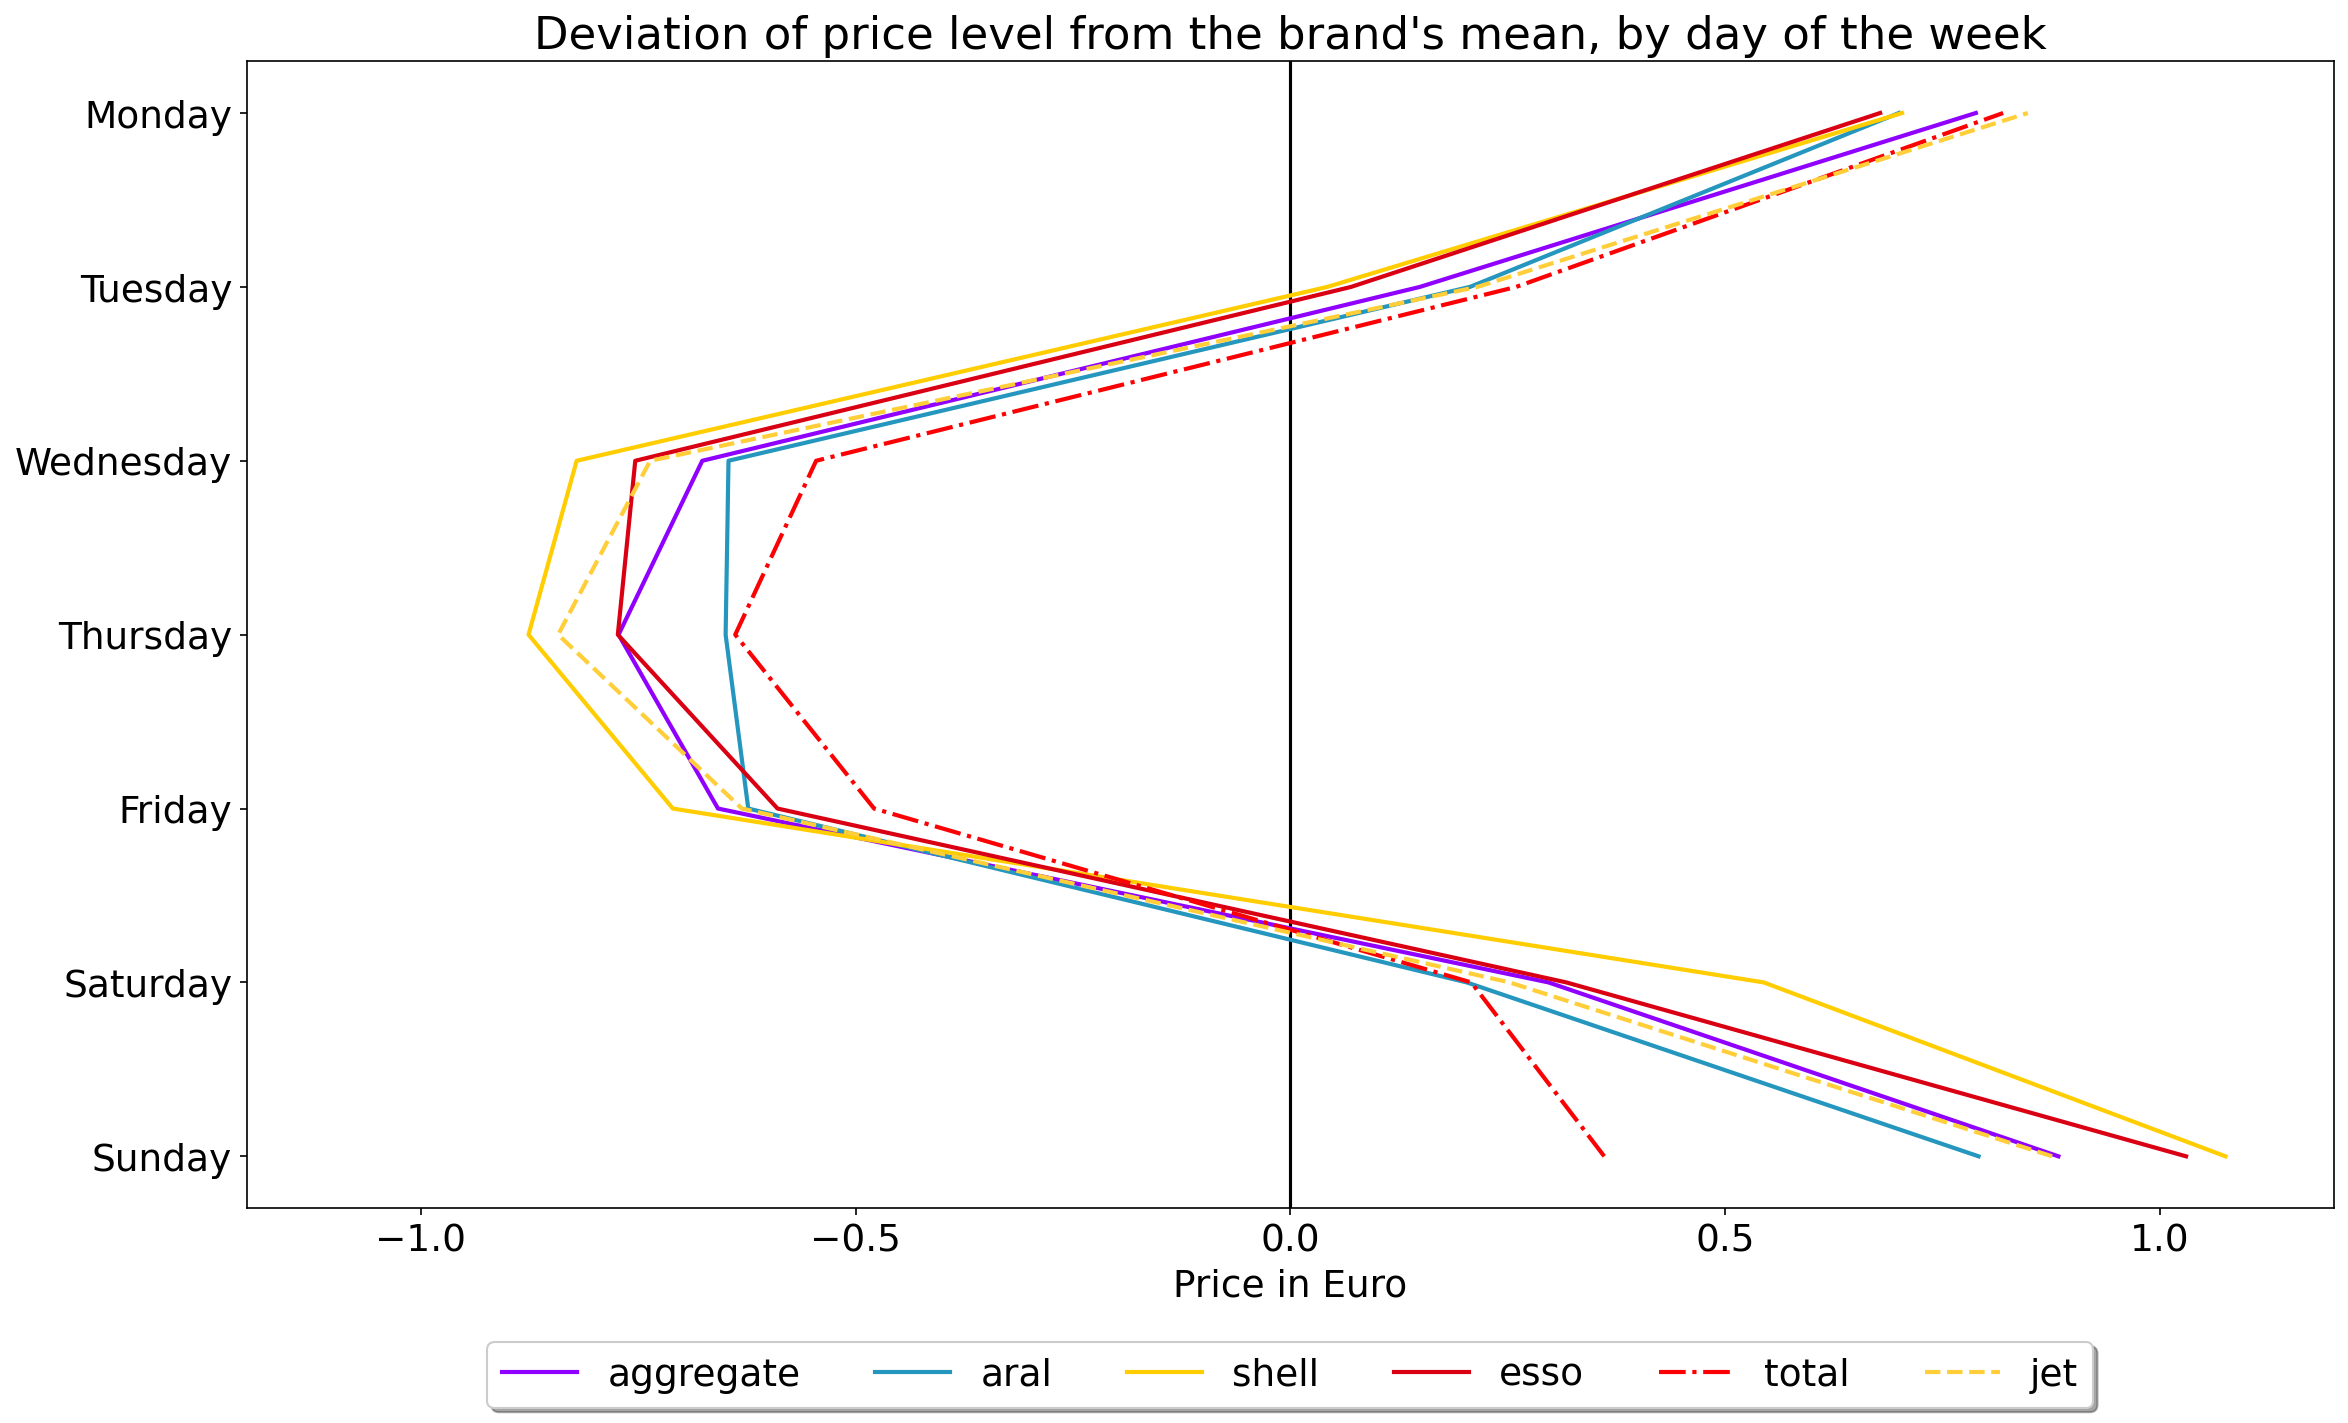
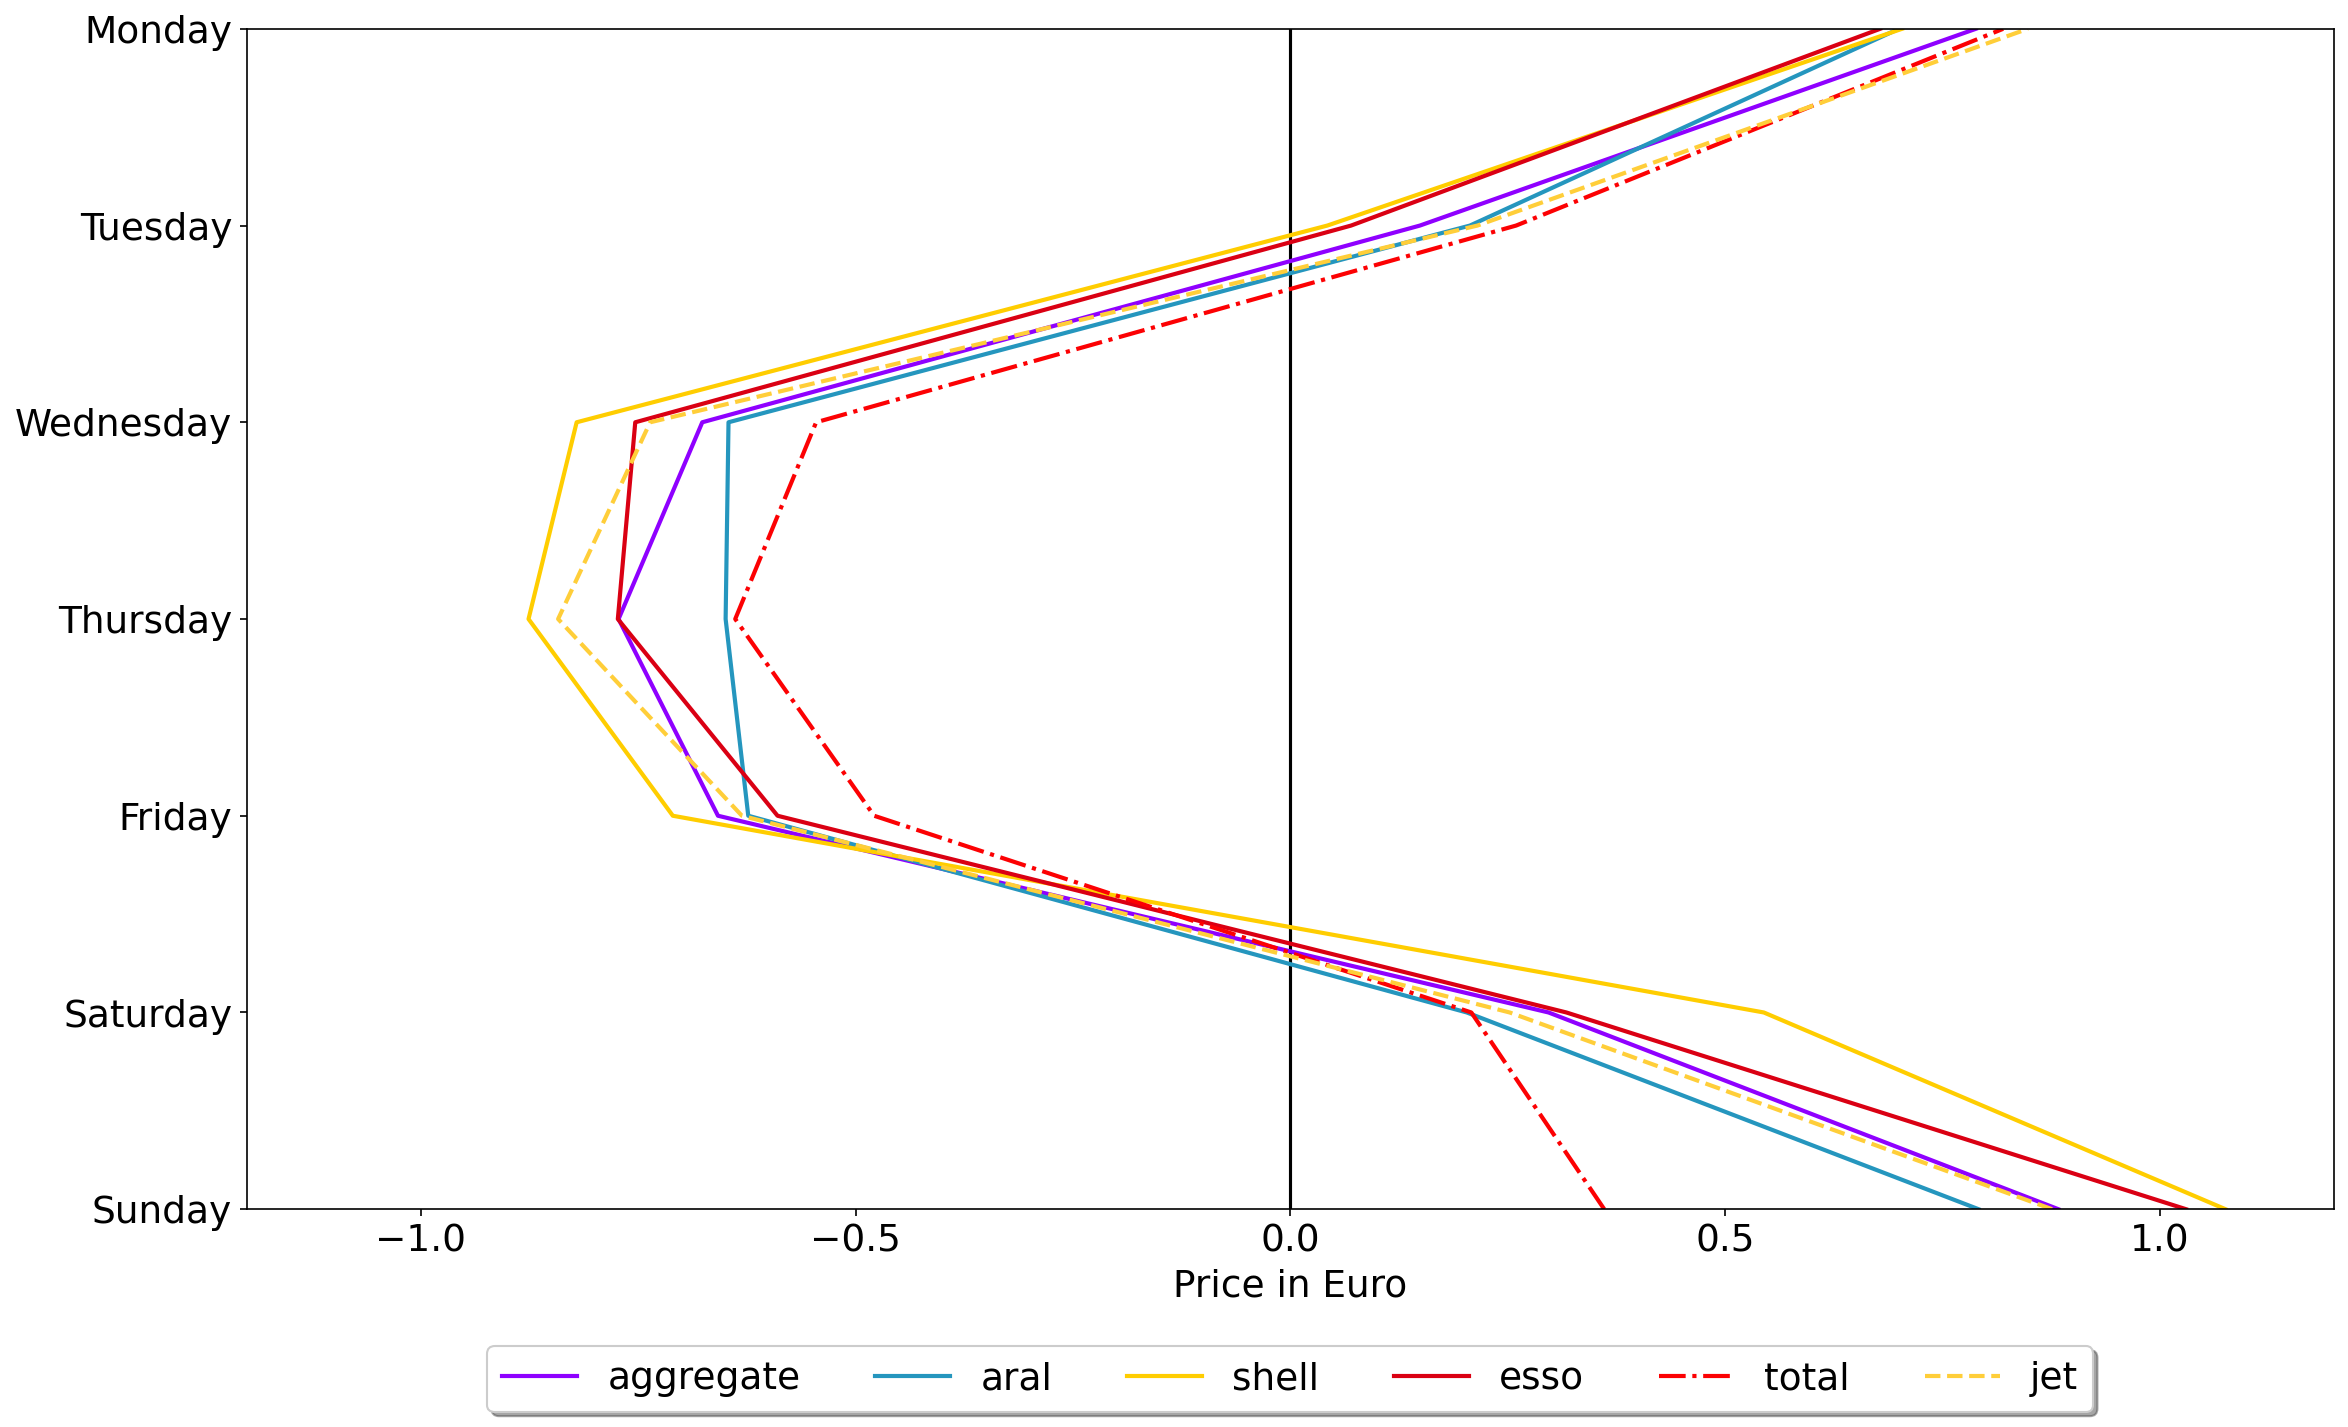
final version mar 2024

diff --git a/py/panel_3a.py b/py/panel_3a.py
@@ -2,14 +2,27 @@ import matplotlib.pyplot as plt
 import matplotlib.dates as mdates
 import pandas as pd
 from datetime import datetime
+import stations_colors as sc
 
-from compilation_peaks_2b import df_prices_ts as df_prices
-import compilation_peaks_2b as compilation
+plt.rcParams.update({'font.size': 18})
+
+#from compilation_peaks_2b import df_prices_ts as df_prices
+#import compilation_peaks_2b as compilation
 import functions_1 as fcs
 
-date = compilation.date
-param = compilation.param
-arg = compilation.arg
+
+#date = compilation.date
+#param = compilation.param
+#arg = compilation.arg
+
+date = datetime(2022, 10, 3)
+param = 'brand_id'
+arg = 'aral'
+
+#df_stations = fcs.selectStationsbyCategory(date, param, arg)
+#df_prices = fcs.selectPriceRowsDate(date, df_stations)
+#df_prices = fcs.trimToTimeSeries(df_prices)
+
 
 save_name = f'./samples/MUC_{param}_{arg}_{date.date()}.png'
 
@@ -18,6 +31,8 @@ save_name = f'./samples/MUC_{param}_{arg}_{date.date()}.png'
 fig = plt.figure(figsize=(16, 9))
 ax = fig.add_subplot(1, 1, 1)
 
+(df_stations, df_prices) = fcs.selectStationsbyCategoryRange(datetime(2022, 10, 1), datetime(2022, 10, 31), 'brand_id', 'aral')
+df_prices = fcs.trimToTimeSeries(df_prices)
 
 datetime_array = [datetime.combine(date, t) for t in df_prices.columns]
 datetime_index = pd.DatetimeIndex(datetime_array)
@@ -25,10 +40,31 @@ datetime_index = pd.DatetimeIndex(datetime_array)
 rangeX = datetime_index.to_numpy()
 
 
-for index, row in df_prices.iterrows():
-	ax.plot_date(rangeX, row.values, fmt='-', label=fcs.lookUpAddress(index, True))
+companies = ['aral', 'shell', 'esso', 'total', 'jet', 'omv', 'avia']
 
-ax.plot_date(rangeX, df_prices.mean().values, fmt='-', label='AVERAGE', zorder = 100, linewidth=3, color='black')
+for brand in companies:
+	(df_stations, df_prices) = fcs.selectStationsbyCategoryRange(datetime(2022, 10, 1), datetime(2022, 10, 31), 'brand_id', brand)
+	df_prices = fcs.trimToTimeSeries(df_prices)
+
+	fmt = '-'
+
+	if brand == 'jet' or brand == 'avia' or brand == 'raiffeisen':
+		fmt = '--'
+
+	if brand == 'total':
+		fmt = '-.'
+
+	if brand == 'star':
+		fmt = ':'
+
+	ax.plot_date(rangeX, df_prices.mean().values, fmt=fmt, label=brand, color=sc.hex_to_rgb(sc.colors_brands[brand]))
+
+
+
+#for index, row in df_prices.iterrows():
+#	ax.plot_date(rangeX, row.values, fmt='-', label=fcs.lookUpAddress(index, True))
+
+#ax.plot_date(rangeX, df_prices.mean().values, fmt='-', label='AVERAGE', zorder = 100, linewidth=3, color='black')
 
 
 # setting the date format of the x-axis labels
@@ -37,20 +73,29 @@ ax.xaxis.set_major_formatter(myFmt)
 
 
 # setting the boundaries of the y-axis
-low = 1.7875
-high = 2.2215
+low = 1.895
+high = 2.135
 ax.set_ylim(low, high)
+#ax.set_xlim(datetime.time(6,0), datetime.time(22,55))
 
 
 # setting the axes labels and legend
 ax.set_ylabel('Price in Euro')
 ax.set_title(f'Munich: \'{param}\': {arg}, date: {date.date()}')
-ax.legend(loc="lower center", ncol=4)
+
+lgd = ax.legend(loc='upper center', bbox_to_anchor=(0.5, -0.05),
+          fancybox=True, shadow=True, ncol=7)
+
+#box = ax.get_position()
+#ax.set_position([box.x0, box.y0 + box.height * 0.1, box.width, box.height * 0.9])
+
+ax.margins(x=0)
 
 
 # display the plot
-# plt.show()
+plt.tight_layout()
+plt.show()
 
 # save figure to a file
-fig.savefig(save_name, dpi = 150)
+fig.savefig(save_name, dpi = 150, bbox_extra_artists=(lgd,), bbox_inches='tight')
 print('Saved: ' + save_name)

diff --git a/py/bar_chart_first_movers_3g.py b/py/bar_chart_first_movers_3g.py
@@ -9,8 +9,10 @@ import stations_colors as sc
 import functions_1 as fcs
 from functions_1 import df_price_inc
 
+plt.rcParams.update({'font.size': 18})
 
-cluster = 90
+
+cluster = 85
 
 #sel_clusters = [1, 6, 10, 15, 16, 22]
 
@@ -21,10 +23,10 @@ df_price_inc['time'] = pd.to_datetime(df_price_inc['time'], format='%H:%M:%S')
 df_price_inc['time'] = df_price_inc['time'].dt.time
 
 
-unselect_clusters = df_price_inc.loc[(df_price_inc['brand_id'] == 'aral') | (df_price_inc['brand_id'] == 'shell'), 'group' + str(cluster)].unique()
-df_price_inc = df_price_inc[~df_price_inc['group' + str(cluster)].isin(unselect_clusters)]
+#unselect_clusters = df_price_inc.loc[(df_price_inc['brand_id'] == 'aral') | (df_price_inc['brand_id'] == 'shell'), 'group' + str(cluster)].unique()
+#df_price_inc = df_price_inc[~df_price_inc['group' + str(cluster)].isin(unselect_clusters)]
 
-df_price_inc = df_price_inc[df_price_inc['mult_leader'+str(cluster)] == 0] #remove mult leaders
+#df_price_inc = df_price_inc[df_price_inc['mult_leader'+str(cluster)] == 0] #remove mult leaders
 
 # remove price increases at 6:00 and at 22:00
 #df_price_inc = df_price_inc[(df_price_inc['time']>= pd.to_datetime('09:00').time()) & (df_price_inc['time'] < pd.to_datetime('22:00').time())]
@@ -48,7 +50,7 @@ bars = ax.bar(rangeX, rangeY)
 
 #rotate the label for each bar, as they overlap
 plt.xticks(rotation=45, ha='right')
-ax.bar_label(bars)
+#ax.bar_label(bars)
 
 
 # set the color of each bar to the brand's color
@@ -58,14 +60,15 @@ for index, value in enumerate(rangeY):
 
 
 # set title of the graph
-ax.set_title('Germany: First movers per day per cluster (group '+str(cluster)+') per cycle, no clusters with aral or shell, NO simultaneous movers, Oct 2022')
+ax.set_title('Germany: First movers per day per cluster (group '+str(cluster)+') per cycle, WITH simultaneous movers, Oct 2022')
 #ax.set_title('First mover per day per cluster (group '+str(cluster)+') per cycle, just between 9:00 and 21:55, no multiple leaders, Munich Oct 2022')
 #ax.set_title('First mover per day per cluster (group '+str(cluster)+') per cycle, filtered out: cluters: '+str(exclude_sel_clusters)+', just between 9:00 and 21:55, no multiple leaders, Munich Oct 2022')
 
-#plt.show()
+
 plt.tight_layout()
+#plt.show()
 
 # save file
-savefile = './samples/barchart_first_movers_all_10-2022_group'+str(cluster)+'_no-aral-no-shell_no-mult-leaders'+'.png'
+savefile = './samples/barchart_first_movers_all_10-2022_group'+str(cluster)+'_with-mult-leaders'+'.png'
 fig.savefig(savefile, dpi = 150)
 print('Saved: ' + savefile)

diff --git a/py/histogram_3e.py b/py/histogram_3e.py
@@ -1,6 +1,7 @@
 import matplotlib.pyplot as plt
 import matplotlib.dates as mdates
 import matplotlib.ticker as mtick
+plt.rcParams.update({'font.size': 18})
 import matplotlib
 import pandas as pd
 import datetime
@@ -31,8 +32,8 @@ df_price_inc.set_index('time', drop=False, inplace=True)
 
 df_price_inc = df_price_inc[(df_price_inc['brand_id'] == brand)] #filter by brand
 
-#id_station = '60c3a07c-2ebe-4073-adae-a667e22fd4c8'
-#df_price_inc = df_price_inc[(df_price_inc['id_data_updated'] == id_station)]
+id_station = '60c3a07c-2ebe-4073-adae-a667e22fd4c8'
+df_price_inc = df_price_inc[(df_price_inc['id_data_updated'] == id_station)]
 
 
 #df_price_inc = df_price_inc.loc[(df_price_inc['date'] == day)]
@@ -93,7 +94,7 @@ ax.set_ylabel('Share')
 ax.grid(zorder=0)
 
 # Set x-axis ticks at 1-hour intervals
-hourly_ticks = pd.date_range(start=df_price_inc['time'].min().replace(minute=0), end=df_price_inc['time'].max().replace(minute=0), freq='1H')
+hourly_ticks = pd.date_range(start=df_price_inc['time'].min().replace(minute=0), end=df_price_inc['time'].max().replace(minute=0), freq='2H')
 hourly_ticks = hourly_ticks.strftime('%H:%M').tolist()
 
 ax.set_xticks([occurrences.index.get_loc(t) for t in hourly_ticks])

diff --git a/py/bar_chart_whole-germany_brands.py b/py/bar_chart_whole-germany_brands.py
@@ -9,12 +9,17 @@ import stations_colors as sc
 import functions_1 as fcs
 from functions_1 import df_char
 
+plt.rcParams.update({'font.size': 18})
+
+
+df_char = df_char.loc[(df_char['first'] <= datetime(2022, 10, 1)) & (df_char['last'] >= datetime(2022, 10, 31))]
 
 n = len(df_char)
+print(n)
 
 grouped = df_char.groupby('brand_id').size().sort_values(ascending=False)
 
-#grouped = (grouped / n).round(2) * 100
+grouped = (grouped / n).round(2) * 100 # market share
 
 big_oil = ['aral', 'shell', 'esso', 'total', 'jet']
 smaller_integrated = ['agip', 'hem', 'omv', 'star', 'avia', 'bft']
@@ -57,10 +62,10 @@ for index, value in enumerate(rangeY):
 
 
 # set title of the graph
-ax.set_title('German pterol stations by brand')
+ax.set_title('German petrol stations by brand, Oct 2022')
 
-
-plt.show()
+plt.tight_layout()
+#plt.show()
 
 
 # save file

diff --git a/py/bar_chart_share_first_movers_3h.py b/py/bar_chart_share_first_movers_3h.py
@@ -5,6 +5,8 @@ import pandas as pd
 
 import stations_colors as sc
 
+plt.rcParams.update({'font.size': 18})
+
 import functions_1 as fcs
 from functions_1 import df_share_first_movers
 
@@ -51,10 +53,10 @@ ax.yaxis.set_major_formatter(mtick.PercentFormatter(1))
 # set title of the graph
 #ax.set_title('Germany: First movers per day per cluster (group '+str(cluster)+') per cycle, no clusters with aral or shell, NO simultaneous movers, Oct 2022')
 
-plt.show()
+#plt.show()
 plt.tight_layout()
 
 # save file
-#savefile = './samples/barchart_first_movers_all_10-2022_group'+str(cluster)+'_no-aral-no-shell_no-mult-leaders'+'.png'
-#fig.savefig(savefile, dpi = 150)
-#print('Saved: ' + savefile)
+savefile = './samples/barchart_first_movers_share_group.png'
+fig.savefig(savefile, dpi = 150)
+print('Saved: ' + savefile)

diff --git a/py/errorbars_3c_dow_all-DE.py b/py/errorbars_3c_dow_all-DE.py
@@ -87,6 +87,8 @@ box = ax.get_position()
 ax.set_position([box.x0, box.y0 + box.height * 0.1,
                  box.width, box.height * 0.9])
 
+ax.margins(y=0)
+
 # Put a legend below current axis
 lgd = ax.legend(loc='upper center', bbox_to_anchor=(0.5, -0.1),
           fancybox=True, shadow=True, ncol=6)
@@ -95,11 +97,11 @@ ax.axis(xmin=-1.2,xmax=1.2)
 plt.axvline(0, color='black')
 
 # Display the plot
-#plt.show()
+plt.show()
 plt.tight_layout()
 
 
 save_name = f'./samples/dev-mean_all-DE_dow.png'
-fig.savefig(save_name, dpi = 150, bbox_extra_artists=(lgd,), bbox_inches='tight')
-print('Saved: ' + save_name)
+#fig.savefig(save_name, dpi = 150, bbox_extra_artists=(lgd,), bbox_inches='tight')
+#print('Saved: ' + save_name)
 

diff --git a/py/compilation_shares_clusters_2g.py b/py/compilation_shares_clusters_2g.py
@@ -90,4 +90,4 @@ df_shares['share_diff_other'] = df_shares['share_first_movers_other'] - df_share
 pd.set_option('display.max_rows', None)
 print(df_shares)
 
-df_shares.to_csv('../data/share_first_movers_all-DE_'+cluster+'.csv', index=False)
+#df_shares.to_csv('../data/share_first_movers_all-DE_'+cluster+'.csv', index=False)

diff --git a/py/functions_1.py b/py/functions_1.py
@@ -158,6 +158,7 @@ def trimToTimeSeries(df, start_time = '6:00', end_time = '22:55'):
 				pass
 
 	df.set_index('id_data_updated', inplace=True)
+	#df.set_index('id_data', inplace=True)
 
 	# trim the dataframe
 	return df.iloc[:, idx_start-1:idx_end]

diff --git a/py/panel_month_3a_1_all-DE.py b/py/panel_month_3a_1_all-DE.py
@@ -118,6 +118,7 @@ lgd = ax.legend(loc='upper center', bbox_to_anchor=(0.5, -0.05),
           fancybox=True, shadow=True, ncol=6)
 
 
+
 # display the plot
 #plt.show()
 plt.tight_layout()
